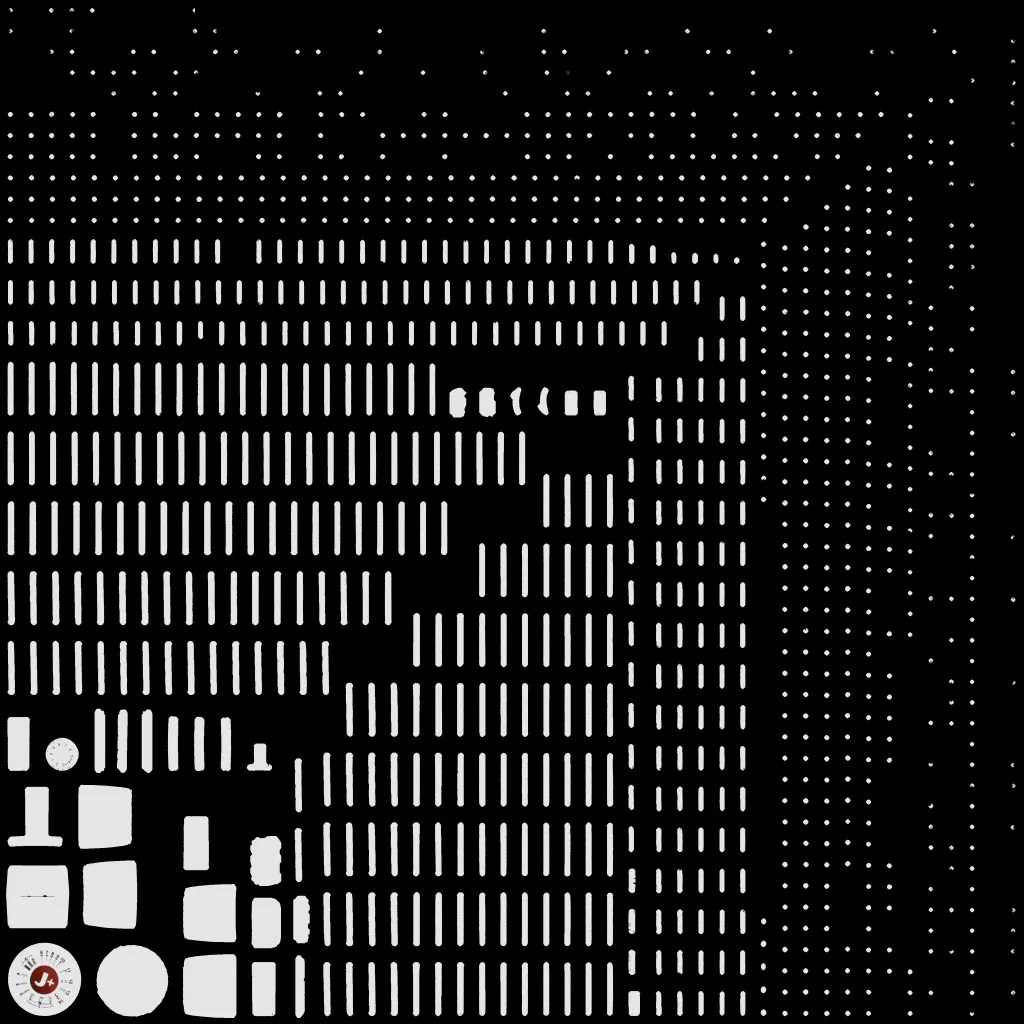
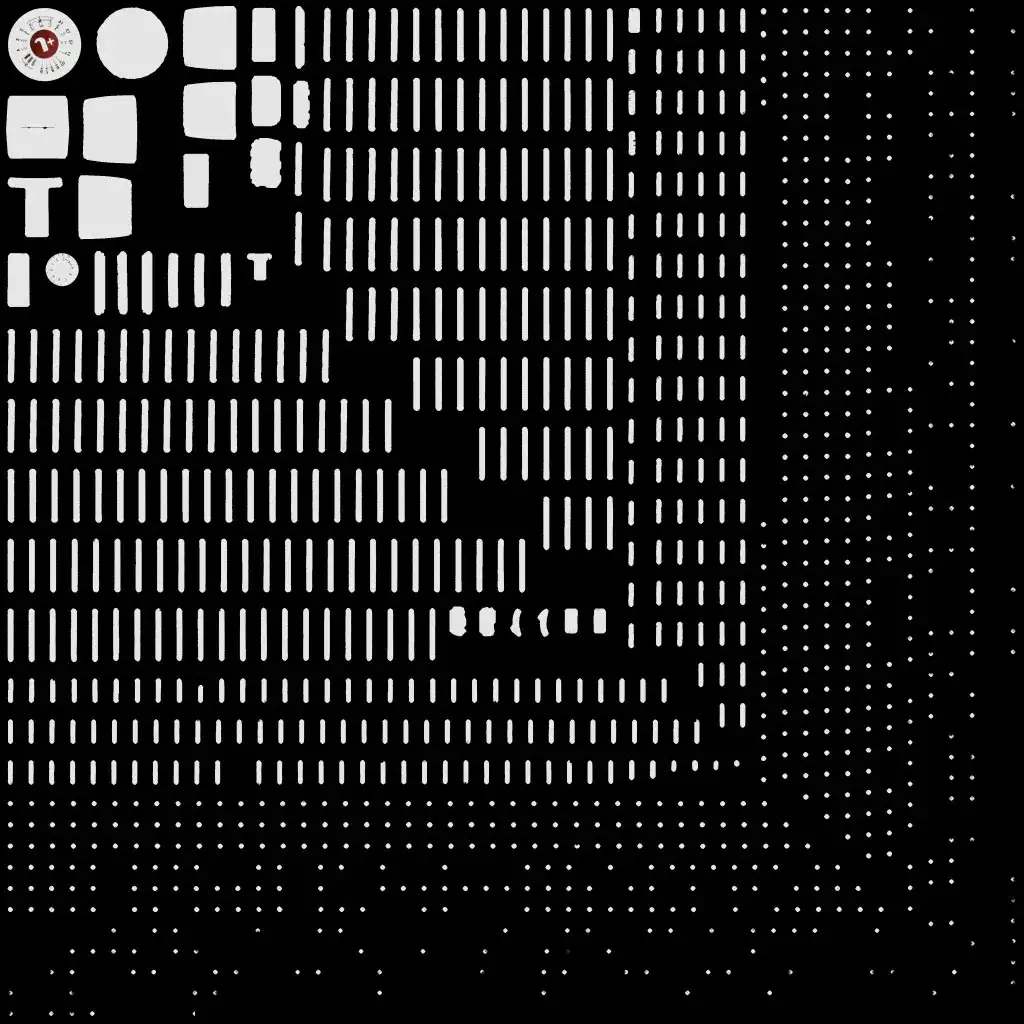
i change material image to low qualit

diff --git a/src/app/(www)/[lang]/page.tsx b/src/app/(www)/[lang]/page.tsx
@@ -43,8 +43,8 @@ export default async function HomePage({ params }: Props) {
                                 width={1200}
                                 height={1200}
                                 className="object-cover"
-                                priority
-                                placeholder="blur"
+                                // priority
+                                // placeholder="blur"
                             />
                             <div className="absolute inset-0 bg-gradient-to-tl from-black/15 to-transparent opacity-0 transition-opacity duration-300 group-hover:opacity-100" />
                             <h3 className="absolute bottom-8 start-8 text-2xl font-bold opacity-0 transition-all duration-300 group-hover:opacity-100 group-hover:bottom-10 max-w-[calc(100%-4rem)]">
